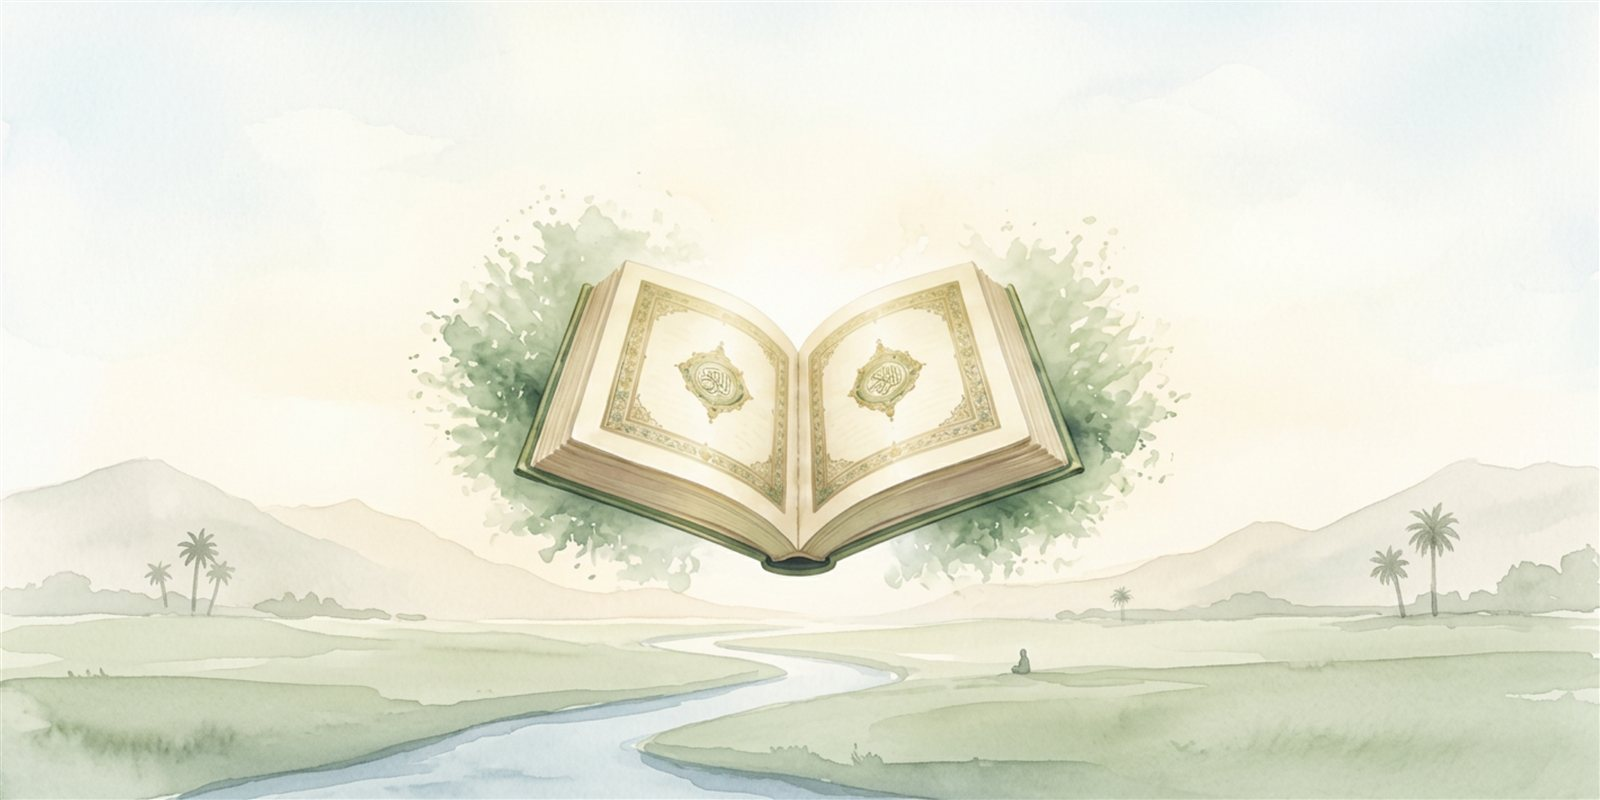
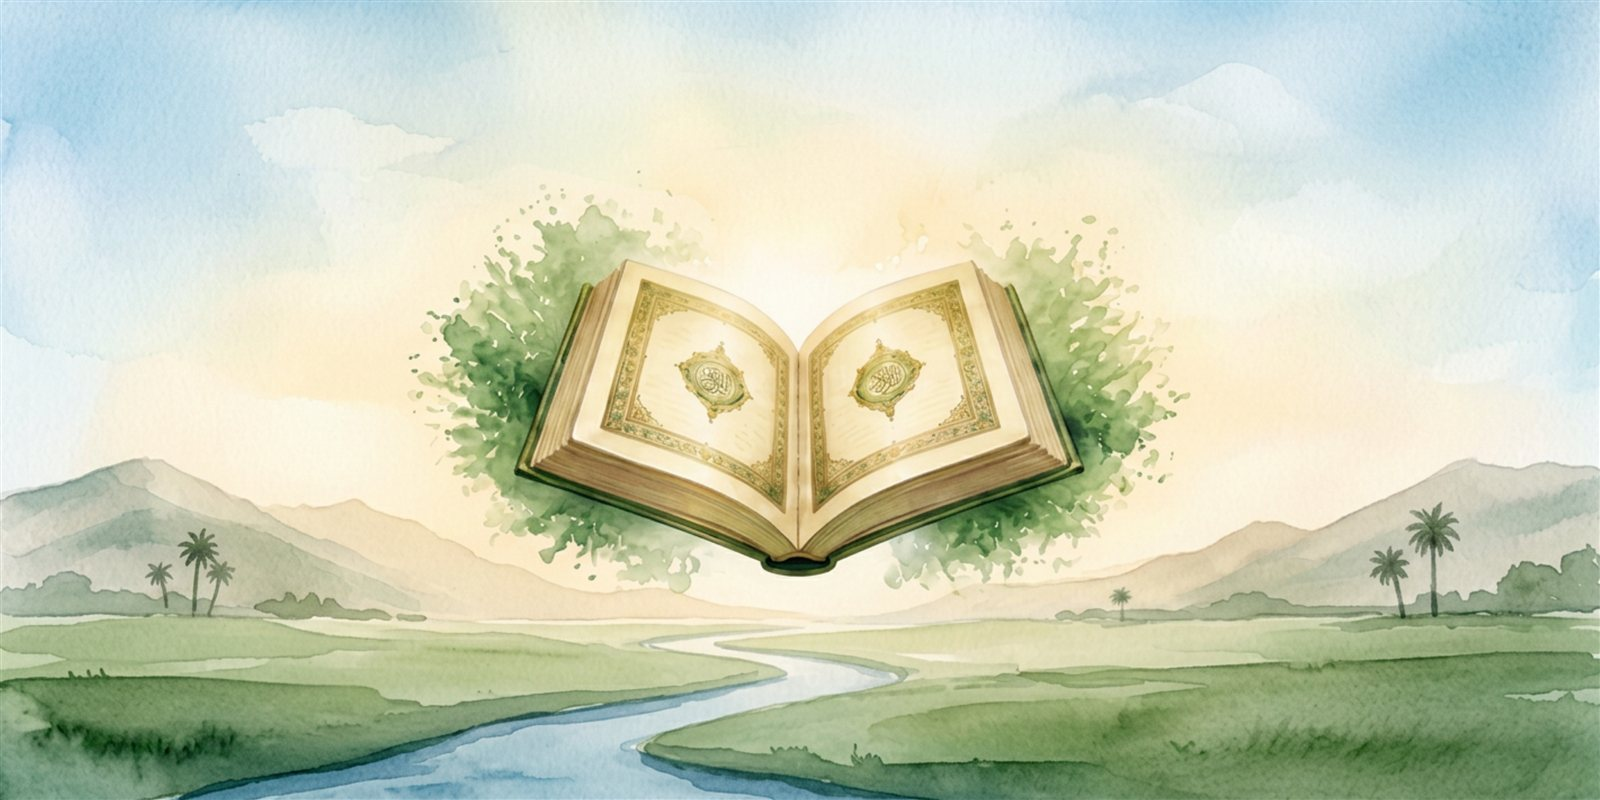
تحديث لوحة «أنا مع كتاب الله» (نسخة أنقى بلا أشخاص) + كسر كاش v2

diff --git a/index.html b/index.html
@@ -310,7 +310,7 @@
     <section class="units">
       <div class="unit upcoming"><span class="soon-badge">قريبًا</span><div class="unit-cap" style="background:url('units-art/unit-makhlouq.jpg?v=4') center center/cover no-repeat!important;aspect-ratio:2/1;height:auto!important" role="img" aria-label="وحدة أنا مخلوق كرمني الله"></div><div class="unit-body"><h3>أنا مخلوق كرمني الله</h3><span class="unit-open">قيد الإعداد</span></div></div>
       <div class="unit upcoming"><span class="soon-badge">قريبًا</span><div class="unit-cap" style="background:url('units-art/unit-mumin.jpg') center center/cover no-repeat!important;aspect-ratio:2/1;height:auto!important" role="img" aria-label="وحدة أنا مؤمن"></div><div class="unit-body"><h3>أنا مؤمن</h3><span class="unit-open">قيد الإعداد</span></div></div>
-      <div class="unit upcoming"><span class="soon-badge">قريبًا</span><div class="unit-cap" style="background:url('units-art/unit-kitab-allah.jpg') center center/cover no-repeat!important;aspect-ratio:2/1;height:auto!important" role="img" aria-label="وحدة أنا مع كتاب الله"></div><div class="unit-body"><h3>أنا مع كتاب الله</h3><span class="unit-open">قيد الإعداد</span></div></div>
+      <div class="unit upcoming"><span class="soon-badge">قريبًا</span><div class="unit-cap" style="background:url('units-art/unit-kitab-allah.jpg?v=2') center center/cover no-repeat!important;aspect-ratio:2/1;height:auto!important" role="img" aria-label="وحدة أنا مع كتاب الله"></div><div class="unit-body"><h3>أنا مع كتاب الله</h3><span class="unit-open">قيد الإعداد</span></div></div>
       <div class="unit upcoming"><span class="soon-badge">قريبًا</span><div class="unit-cap" style="background:url('units-art/unit-nabi-muhammad.jpg') center center/cover no-repeat!important;aspect-ratio:2/1;height:auto!important" role="img" aria-label="وحدة نبيي محمد صلى الله عليه وسلم"></div><div class="unit-body"><h3>نبيي محمد ﷺ</h3><span class="unit-open">قيد الإعداد</span></div></div>
       <div class="unit upcoming"><span class="soon-badge">قريبًا</span><div class="unit-cap" style="background:linear-gradient(165deg,#7a3a2a,#c0603a 55%,#f0c07a)"><div class="gq-uscene"><svg viewBox="0 0 340 120" preserveAspectRatio="xMidYMid slice" xmlns="http://www.w3.org/2000/svg"><g filter="url(#wc)"><path d="M156,74 L200,46 L244,74 Z" fill="#a85535"/><rect x="168" y="74" width="64" height="30" fill="#c9773f"/><rect x="192" y="84" width="16" height="18" fill="#ffe6a8" opacity="0.92"/></g><g filter="url(#wcsoft)"><rect x="252" y="80" width="5" height="24" fill="#7a5230"/><circle cx="254" cy="75" r="14" fill="#3f8a52" opacity="0.9"/></g><rect width="340" height="120" filter="url(#grain)" opacity="0.5"/></svg></div></div><div class="unit-body"><h3>العائلة</h3><span class="unit-open">قيد الإعداد</span></div></div>
       <div class="unit upcoming"><span class="soon-badge">قريبًا</span><div class="unit-cap" style="background:linear-gradient(165deg,#4a3520,#8a5a34 55%,#e6c48a)"><div class="gq-uscene"><svg viewBox="0 0 340 120" preserveAspectRatio="xMidYMid slice" xmlns="http://www.w3.org/2000/svg"><g filter="url(#wc)"><path d="M150,74 L200,44 L250,74 Z" fill="#7a4a28"/><rect x="162" y="74" width="76" height="30" fill="#9a6a3a"/><rect x="176" y="84" width="14" height="20" fill="#5a3820"/><rect x="206" y="84" width="16" height="14" fill="#ffe6a8" opacity="0.85"/></g><rect width="340" height="120" filter="url(#grain)" opacity="0.5"/></svg></div></div><div class="unit-body"><h3>المسكن</h3><span class="unit-open">قيد الإعداد</span></div></div>
